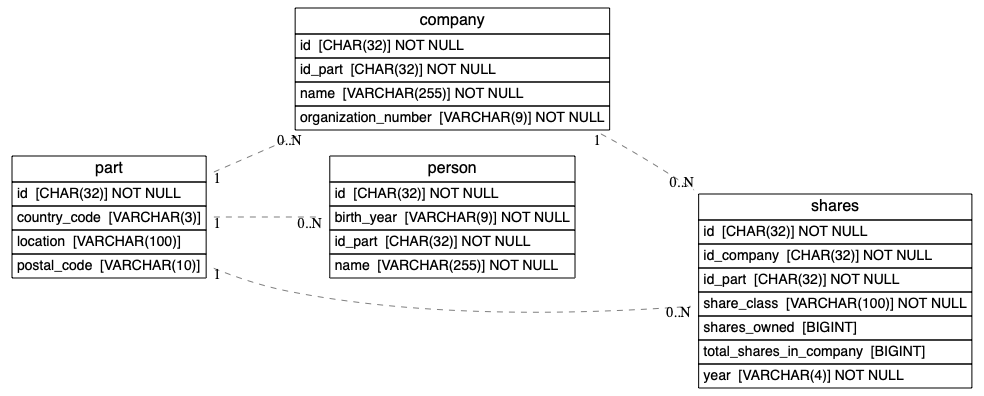
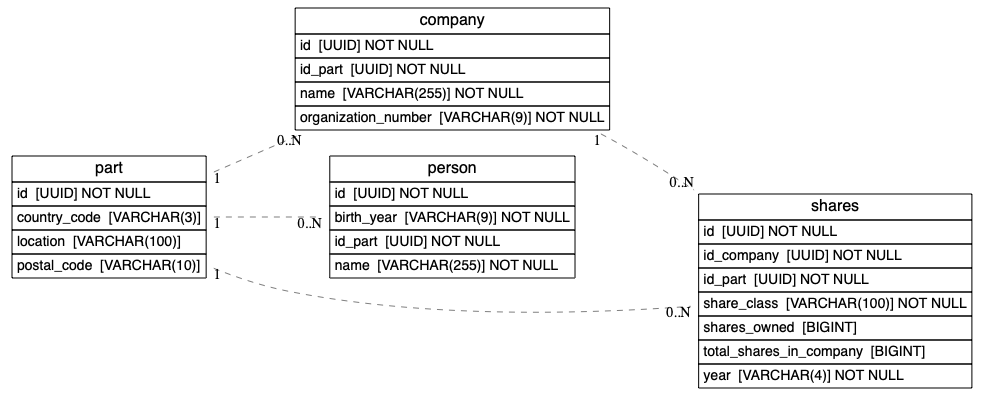
fix UUID type

diff --git a/src/shareholder_registry/models/shares.py b/src/shareholder_registry/models/shares.py
@@ -1,13 +1,30 @@
 import uuid
 from uuid import UUID
 
-from sqlmodel import Field, Relationship, SQLModel, Column, BigInteger
+from sqlalchemy.dialects.postgresql import UUID as PostgresUUID
+from sqlmodel import BigInteger, Column, Field, Relationship, SQLModel, ForeignKey
 
 
 class Shares(SQLModel, table=True):
-    id: UUID = Field(default_factory=uuid.uuid4, primary_key=True)
-    id_part: UUID = Field(foreign_key="part.id", nullable=False)
-    id_company: UUID = Field(foreign_key="company.id", nullable=False)
+    id: uuid.UUID = Field(
+        default_factory=uuid.uuid4,
+        sa_column=Column(PostgresUUID(as_uuid=True), primary_key=True)
+    )
+
+    id_part: uuid.UUID = Field(
+        sa_column=Column(
+            PostgresUUID(as_uuid=True),
+            ForeignKey("part.id"),
+            nullable=False
+        )
+    )
+    id_company: uuid.UUID = Field(
+        sa_column=Column(
+            PostgresUUID(as_uuid=True),
+            ForeignKey("company.id"),
+            nullable=False
+        )
+    )
 
     year: str = Field(max_length=4)
     share_class: str = Field(max_length=100)

diff --git a/src/shareholder_registry/models/person.py b/src/shareholder_registry/models/person.py
@@ -1,7 +1,7 @@
 import uuid
-from uuid import UUID
 
-from sqlmodel import Field, Relationship, SQLModel, UniqueConstraint
+from sqlalchemy.dialects.postgresql import UUID as PostgresUUID
+from sqlmodel import Column, Field, Relationship, SQLModel, UniqueConstraint, ForeignKey
 
 
 class Person(SQLModel, table=True):
@@ -9,9 +9,17 @@ class Person(SQLModel, table=True):
         UniqueConstraint("name", "birth_year", name="uq_person_name_birth_year"),
     )
 
-    id: UUID = Field(default_factory=uuid.uuid4, primary_key=True)
-    id_part: UUID = Field(
-        default_factory=uuid.uuid4, nullable=False, foreign_key="part.id"
+    id: uuid.UUID = Field(
+        default_factory=uuid.uuid4,
+        sa_column=Column(PostgresUUID(as_uuid=True), primary_key=True)
+    )
+
+    id_part: uuid.UUID = Field(
+        sa_column=Column(
+            PostgresUUID(as_uuid=True),
+            ForeignKey("part.id"),
+            nullable=False
+        )
     )
 
     name: str = Field(..., max_length=255, description="Name of the shareholder")

diff --git a/src/shareholder_registry/models/company.py b/src/shareholder_registry/models/company.py
@@ -1,17 +1,25 @@
 import uuid
 from typing import TYPE_CHECKING
-from uuid import UUID
 
-from sqlmodel import Field, Relationship, SQLModel
+from sqlalchemy.dialects.postgresql import UUID as PostgresUUID
+from sqlmodel import Column, Field, Relationship, SQLModel, ForeignKey
 
 if TYPE_CHECKING:
     from .shares import Shares
 
 
 class Company(SQLModel, table=True):
-    id: UUID = Field(default_factory=uuid.uuid4, primary_key=True)
-    id_part: UUID = Field(
-        default_factory=uuid.uuid4, nullable=False, foreign_key="part.id"
+    id: uuid.UUID = Field(
+        default_factory=uuid.uuid4,
+        sa_column=Column(PostgresUUID(as_uuid=True), primary_key=True)
+    )
+
+    id_part: uuid.UUID = Field(
+        sa_column=Column(
+            PostgresUUID(as_uuid=True),
+            ForeignKey("part.id"),
+            nullable=False
+        )
     )
 
     name: str = Field(..., max_length=255, description="Name of the company")

diff --git a/src/shareholder_registry/models/part.py b/src/shareholder_registry/models/part.py
@@ -1,8 +1,8 @@
 import uuid
 from typing import TYPE_CHECKING, Optional
-from uuid import UUID
 
-from sqlmodel import Field, Relationship, SQLModel
+from sqlalchemy.dialects.postgresql import UUID as PostgresUUID
+from sqlmodel import Column, Field, Relationship, SQLModel
 
 if TYPE_CHECKING:
     from .company import Company
@@ -11,7 +11,11 @@ if TYPE_CHECKING:
 
 
 class Part(SQLModel, table=True):
-    id: UUID = Field(default_factory=uuid.uuid4, primary_key=True)
+    id: uuid.UUID = Field(
+        default_factory=uuid.uuid4,
+        sa_column=Column(PostgresUUID(as_uuid=True), primary_key=True)
+    )
+
     postal_code: str = Field(
         max_length=10, description=("Postal code for part"), nullable=True
     )
